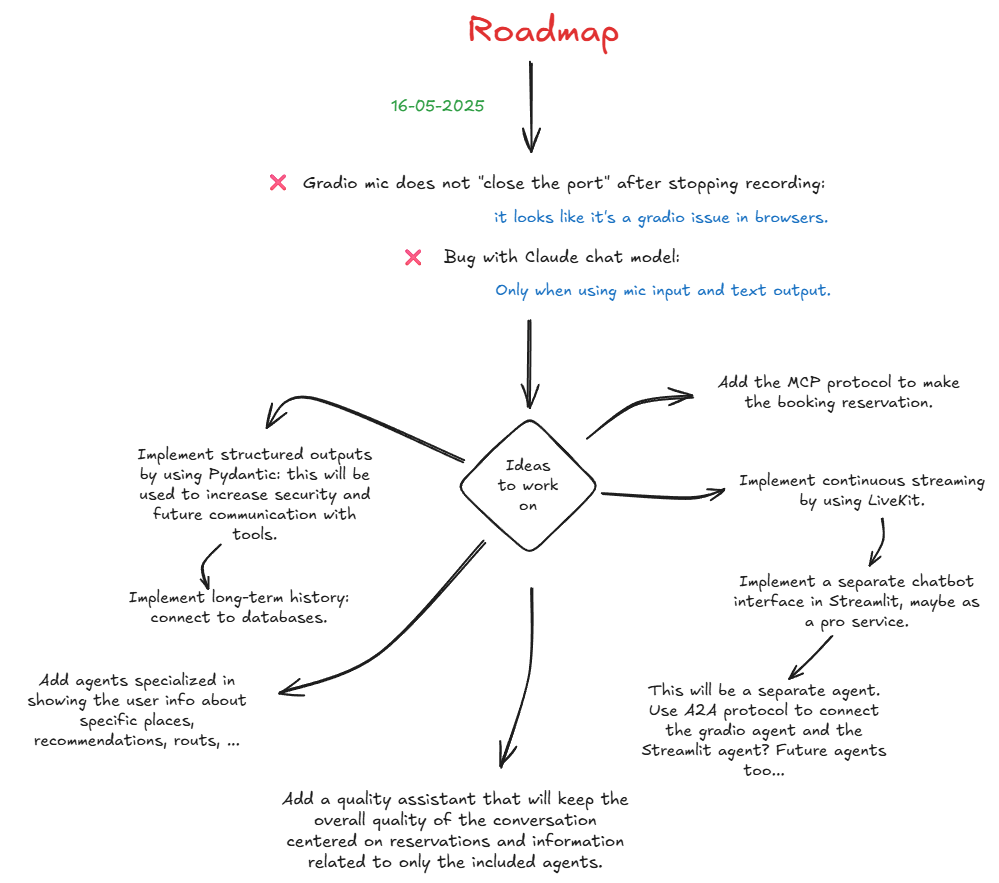
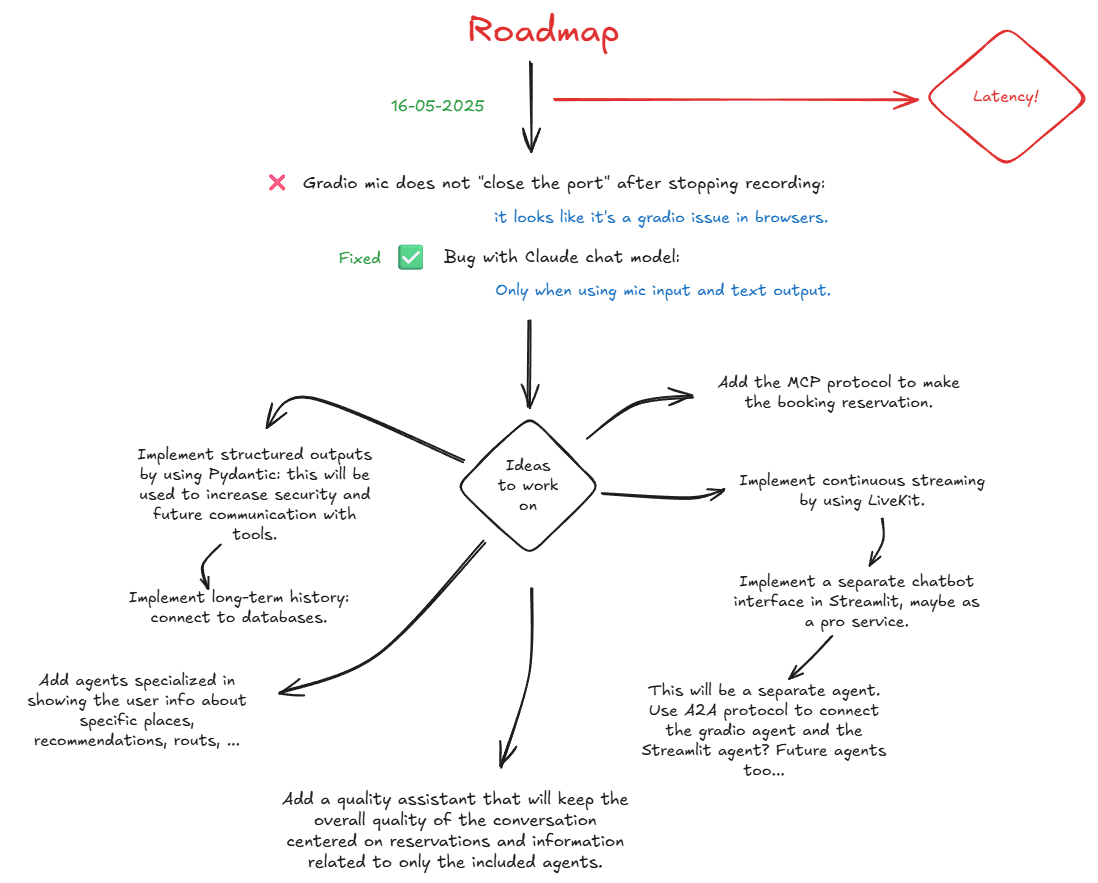
Fixed Claude mic input - text output bug

diff --git a/Booking-Reservation-Multimodal/booking_chatbot_app/models/claude_model.py b/Booking-Reservation-Multimodal/booking_chatbot_app/models/claude_model.py
@@ -26,18 +26,26 @@ class ClaudeModel:
             messages=[{"role": "user", "content": prompt}],
         )
 
-    def response_stream(self, prompt, history,stream):
-        prompt = self.message_state(prompt,history) 
+
+    def response_stream(self, prompt, history, stream):
+        prompt = self.message_state(prompt, history)
         if not prompt:
             yield history + [{"role": "assistant", "content": "(Empty prompt)"}]
-            return           
-        result = self.completion(prompt,stream)
+            return
+
+        result = self.completion(prompt, stream)
 
         assistant_msg = ""
+
+        # Only append user prompt if it's not already in history
+        if not history or history[-1]["role"] != "user" or history[-1]["content"] != prompt:
+            history = history + [{"role": "user", "content": prompt}]
+
         with result as stream:
             for text in stream.text_stream:
                 assistant_msg += text or ""
                 yield history + [{"role": "assistant", "content": assistant_msg}]
+
 
     def response_full(self, prompt, history, stream):
         prompt = self.message_state(prompt,history)

diff --git a/Booking-Reservation-Multimodal/booking_chatbot_app/ui/gradio_audio_input.py b/Booking-Reservation-Multimodal/booking_chatbot_app/ui/gradio_audio_input.py
@@ -7,7 +7,7 @@ def setup_voice_input(mic_input, chatbot, model_selector, audio_output_checkbox,
         if not audio_data or not mic_enabled:
             return history, None
 
-        sample_rate, waveform = audio_data  # Gradio gives (np.ndarray, int)
+        sample_rate, waveform = audio_data 
         transcript = audio_receiver(waveform,sample_rate)
 
         final_history = []
